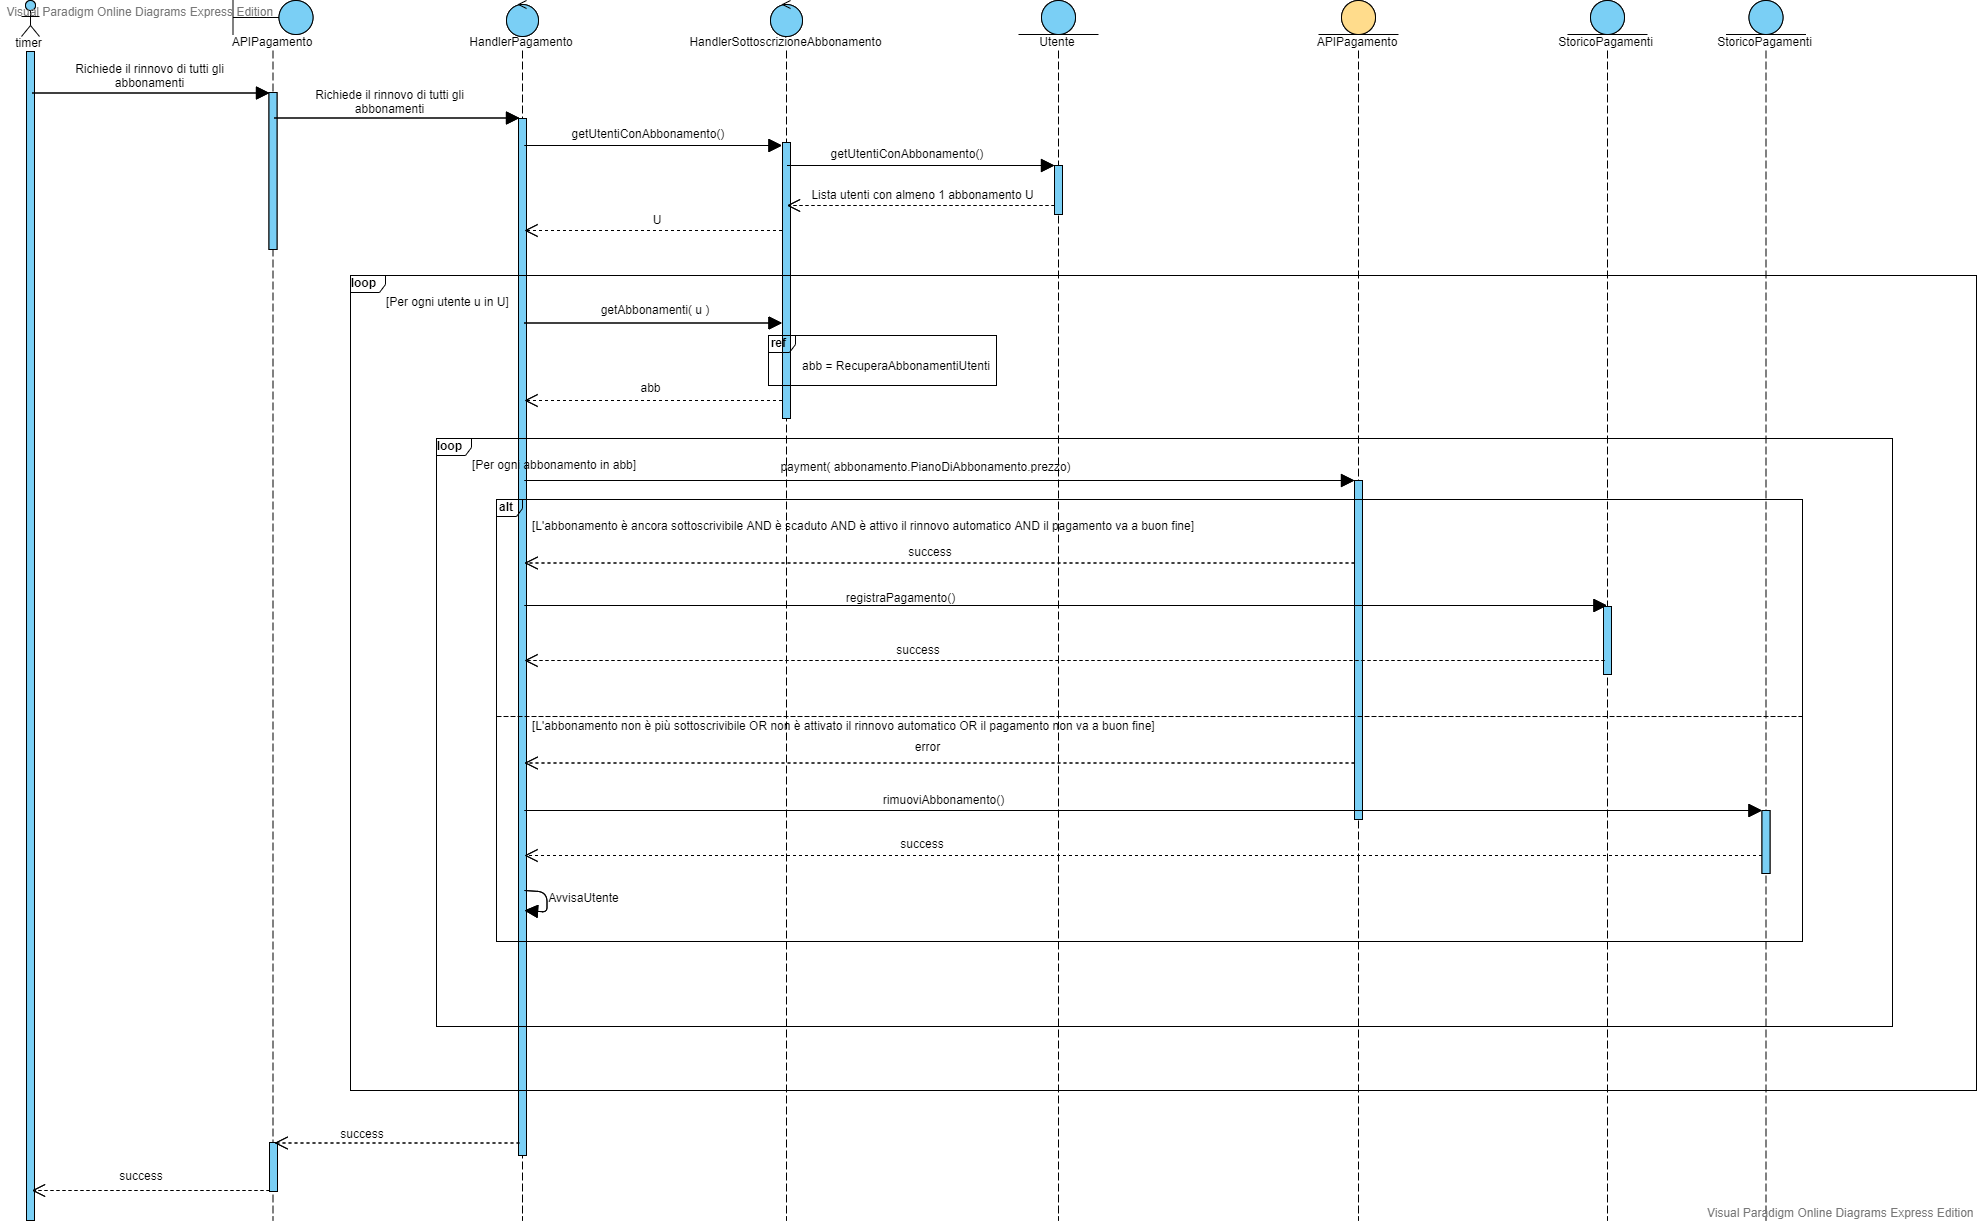
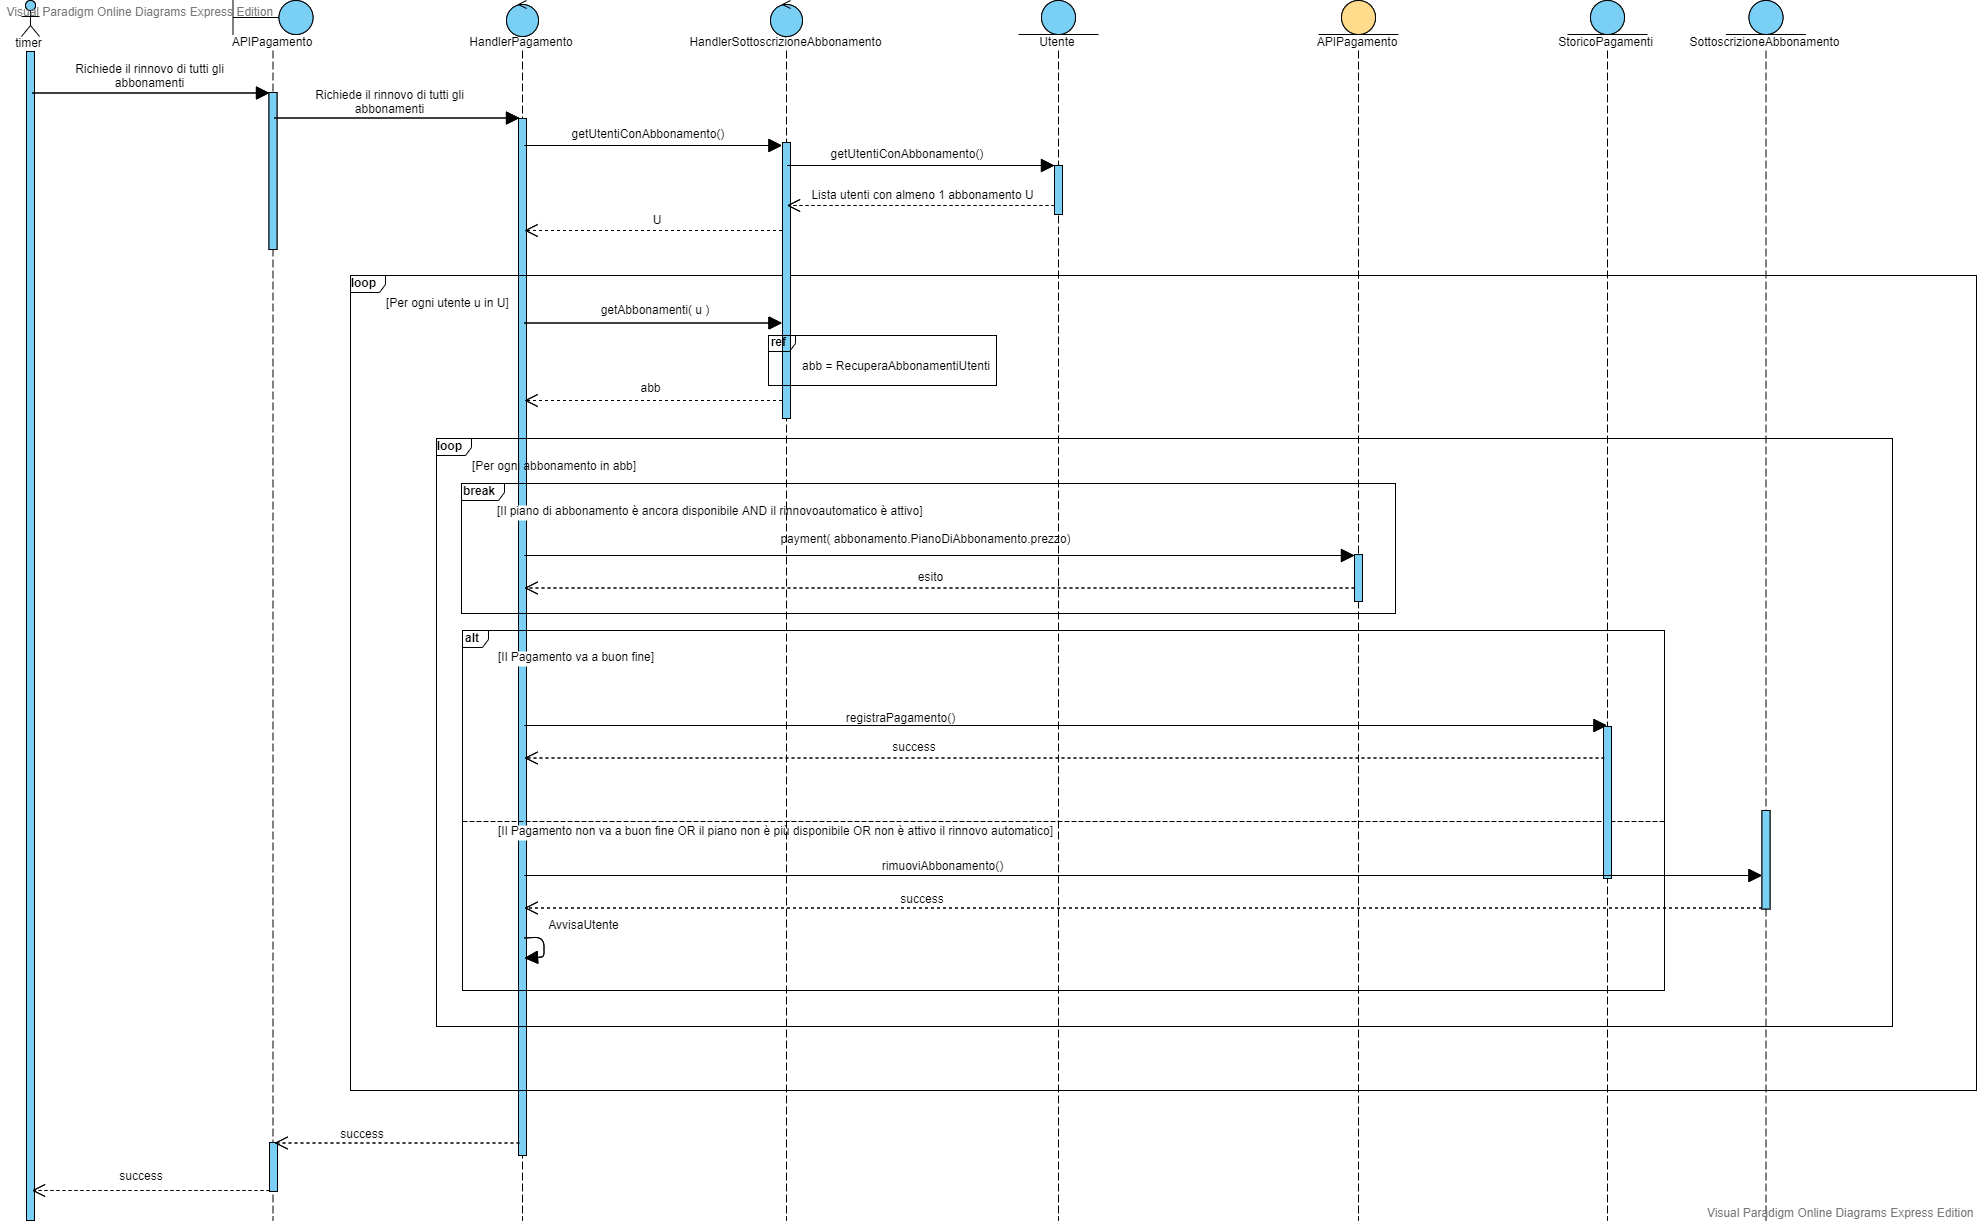
add seq diagr for CambiaAbbonamento (design) and GestisciScadenzeAbbonamento (design and fix analisi) + fix CRC StoricoPagamenti

diff --git a/Contents/AnalisiSistema.tex b/Contents/AnalisiSistema.tex
@@ -164,7 +164,7 @@ Le basi per la scelta delle classi derivano principalente dall'anailisi dei requ
         Descrizione & \multicolumn{3}{|p{9cm}|}{Classe che rappresenta lo storico di tutte le transazioni di denaro avvenute} \\\hline
         SuperClassi & \multicolumn{3}{|p{9cm}|}{-} \\\hline
         SottoClassi & \multicolumn{3}{|p{9cm}|}{-} \\\hline
-        Attributi & \multicolumn{3}{|p{9cm}|}{mittente, destinatario, data emissione, somma traferita, causale} \\\hline
+        Attributi & \multicolumn{3}{|p{9cm}|}{utente, data emissione, somma traferita, causale, (ricevuto/erogato)} \\\hline
         \multicolumn{4}{|p{12cm}|}{Responsabilit\'a} \\\hline
         \multicolumn{2}{|p{6cm}|}{Nome} & \multicolumn{2}{|p{6cm}|}{Collaboratore} \\\hline
         \multicolumn{2}{|p{6cm}|}{-} & \multicolumn{2}{|p{6cm}|}{-} \\\hline
